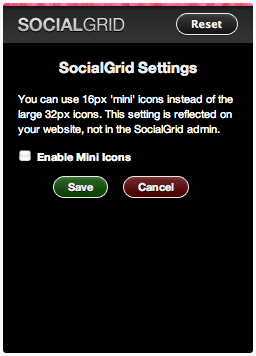
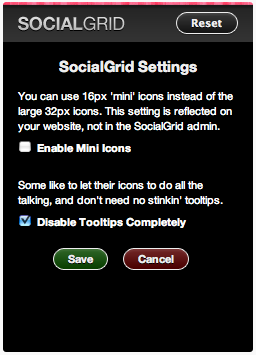
Updated to 2.3, added support for disabling tooltips alltogether
git-svn-id: https://plugins.svn.wordpress.org/socialgrid/trunk@188295 b8457f37-d9ea-0310-8a92-e5e31aec5664

diff --git a/static/js/socialgrid-admin.js b/static/js/socialgrid-admin.js
@@ -8,8 +8,6 @@ SocialGridAdmin = {
         this.dropzone = _$('#socialgrid-drop-delete');
         this.settings_button = _$('#socialgrid-settings-button');
 
-        this.mini_icons_enabled = SG_MINI_ICONS;
-        
         this.items = _$('.socialgrid-items');
         
         sg.items.sortable({
@@ -77,14 +75,21 @@ SocialGridAdmin = {
                 '<p>You can use 16px \'mini\' icons instead of the large 32px icons. This setting is reflected on your website, not in the SocialGrid admin.</p>',
                 '<input type="checkbox" name="sg-mini-icons" id="sg-mini-icons" />',
                 '<label for="sg-mini-icons">Enable Mini Icons</label>',
+            '</div>',
+            '<div class="field">',
+                '<p>Some like to let their icons to do all the talking, and don\'t need no stinkin\' tooltips.</p>',
+                '<input type="checkbox" name="sg-disable-tooltips" id="sg-disable-tooltips" />',
+                '<label for="sg-disable-tooltips">Disable Tooltips Completely</label>',
             '</div>'
         ];
         
         sg.settings_screen.html(settings_html.join(""));
         
-        if (sg.mini_icons_enabled) {
+        if (SG_MINI_ICONS)
             _$('#sg-mini-icons').attr('checked', 'checked');
-        }
+        
+        if (SG_DISABLE_TOOLTIPS)
+            _$('#sg-disable-tooltips').attr('checked', 'checked');
         
         sg.reset_button = sg.create_button('Reset', function() {
             // will reset all of SG
@@ -114,12 +119,15 @@ SocialGridAdmin = {
         sg.settings_screen.show('slide', { direction: 'right' }, 500);
         
         sg.settings_screen.bind('save_settings', function(event) {
-            checkbox = _$('#sg-mini-icons');
-            if (checkbox.attr('checked')) {
-                sg.save_icon_size('mini')
-            } else {
-                sg.save_icon_size('standard')
-            };
+            var icon_checkbox = _$('#sg-mini-icons'),
+                tooltip_checkbox = _$('#sg-disable-tooltips');
+
+            sg.settings = {
+                icon_size: (icon_checkbox.attr('checked')) ? 'mini' : 'standard',
+                tooltips: (tooltip_checkbox.attr('checked')) ? 'disabled' : 'enabled'
+            }
+            
+            sg.save_settings(sg.settings);
             
             sg.reset_button.fadeOut('fast', function(){
                 sg.reset_button.remove();
@@ -539,23 +547,21 @@ SocialGridAdmin = {
     },
     
     // Save Icon Size
-    save_icon_size: function(size) {
+    save_settings: function() {
         var sg = this;
         
         _$.ajax({
             url: window.ajaxurl,
             type: 'POST',
             data: {
-                'action': 'toggle_socialgrid_icon_size',
-                'size': size,
+                'action': 'save_socialgrid_settings',
+                'icon_size': sg.settings.icon_size,
+                'tooltips': sg.settings.tooltips
             },
             
-            success: function() {
-                if (size == 'standard') {
-                    sg.mini_icons_enabled = false;
-                } else {
-                    sg.mini_icons_enabled = true;
-                }
+            success: function(response) {
+                window.SG_MINI_ICONS = (sg.settings.icon_size == 'mini') ? true : false;
+                window.SG_DISABLE_TOOLTIPS = (sg.settings.tooltips == 'disabled') ? true : false;
             },
             
             error: function() {

diff --git a/static/css/socialgrid-admin.css b/static/css/socialgrid-admin.css
@@ -186,8 +186,12 @@
             }
             
             div.socialgrid-settings-pane .field {
-                padding-top: 5px;
+                padding: 3px 0 7px 0;
             }
+            
+                div.socialgrid-settings-pane .field p {
+                    margin-bottom: 5px;
+                }
         
         div.socialgrid-footer-container {
             clear: both;

diff --git a/socialgrid.php b/socialgrid.php
@@ -3,7 +3,7 @@
 Plugin Name: SocialGrid
 Plugin URI: http://whalesalad.com/socialgrid
 Description: SocialGrid makes it easy to include attractive links to your various social media profiles on the web.
-Version: 2.2
+Version: 2.3
 Author: Michael Whalen
 Author URI: http://whalesalad.com
 */
@@ -11,7 +11,7 @@ Author URI: http://whalesalad.com
 define('WP_DEBUG', true);
 
 // Define global SocialGrid constants
-define('SG_VERSION', 2.2);
+define('SG_VERSION', 2.3);
 define('SG_NAME', 'SocialGrid');
 define('SG_SLUG', 'socialgrid');
 
@@ -39,6 +39,7 @@ if (is_php5()) {
     add_action('wp_ajax_rearrange_socialgrid_services', 'socialgrid_rearrange_rpc');
     add_action('wp_ajax_toggle_socialgrid_icon_size', 'socialgrid_toggle_icon_size_rpc');
     add_action('wp_ajax_master_socialgrid_reset', 'socialgrid_master_reset_rpc');
+    add_action('wp_ajax_save_socialgrid_settings', 'socialgrid_savesettings_rpc');
     
     $sg_settings = new SocialGridSettings();
     $sg_admin = new SGAdmin($sg_settings);
@@ -53,14 +54,17 @@ function socialgrid_add_options_page() {
 }
 
 function socialgrid_settings_init() {
+    global $sg_settings;
     if (is_admin()) {
         wp_enqueue_style(SG_SLUG.'-admin-stylesheet',  SG_STATIC.'/css/'.SG_SLUG.'-admin.css');
         wp_enqueue_script(SG_SLUG.'-admin-js', SG_STATIC.'/js/'.SG_SLUG.'-admin.js');
         wp_enqueue_script(SG_SLUG.'-admin-jquery-ui', SG_STATIC.'/js/jquery-ui-1.7.2.custom.min.js');
     } else {
-        wp_enqueue_script('jquery');
+        if (!$sg_settings->disable_tooltips) {
+            wp_enqueue_script('jquery');
+            wp_enqueue_script(SG_SLUG.'-js', SG_STATIC.'/js/'.SG_SLUG.'.js');
+        }
         wp_enqueue_style(SG_SLUG.'-stylesheet',  SG_STATIC.'/css/'.SG_SLUG.'.css');
-        wp_enqueue_script(SG_SLUG.'-js', SG_STATIC.'/js/'.SG_SLUG.'.js');
     }
 }
 
@@ -69,7 +73,8 @@ function socialgrid_settings_head() {
     <script type="text/javascript">
         SG_DEFAULTS = <?php echo json_encode($sg_admin->default_services); ?>;
         SG_SERVICES = <?php echo json_encode($sg_admin->inline_service_list()); ?>;
-        SG_MINI_ICONS = <?php echo json_encode($sg_admin->settings->enable_small_icons); ?>;
+        SG_MINI_ICONS = <?php echo json_encode($sg_admin->settings->enable_mini_icons); ?>;
+        SG_DISABLE_TOOLTIPS = <?php echo json_encode($sg_admin->settings->disable_tooltips); ?>;
         jQuery(document).ready(function() {
             SocialGridAdmin.init();
         });
@@ -220,15 +225,21 @@ function socialgrid_remove_service_rpc() {
     $sg_settings->save();
 }
 
-function socialgrid_toggle_icon_size_rpc() {
+function socialgrid_savesettings_rpc() {
     global $sg_settings;
     
-    $size = $_POST['size'];
+    $icon_size = $_POST['icon_size'];
+    if ($icon_size == 'mini') {
+        $sg_settings->enable_mini_icons = true;
+    } else {
+        $sg_settings->enable_mini_icons = false;
+    }
     
-    if ($size == 'mini') {
-        $sg_settings->enable_small_icons = true;
-    } else if ($size == 'standard') {
-        $sg_settings->enable_small_icons = false;
+    $disable_tooltips = $_POST['tooltips'];
+    if ($disable_tooltips == 'disabled') {
+        $sg_settings->disable_tooltips = true;
+    } else {
+        $sg_settings->disable_tooltips = false;
     }
     
     $sg_settings->save();

diff --git a/classes/sg.php b/classes/sg.php
@@ -156,7 +156,7 @@ class SG {
         $services = $this->services;
 
         if ($services) {
-            $size = ($this->settings->enable_small_icons) ? "mini" : "standard";
+            $size = ($this->settings->enable_mini_icons) ? "mini" : "standard";
             
             echo '<ul id="socialGrid" class="'.$size.'">';
             
